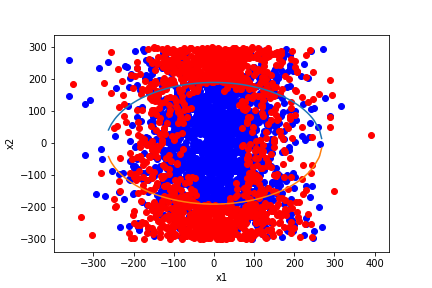
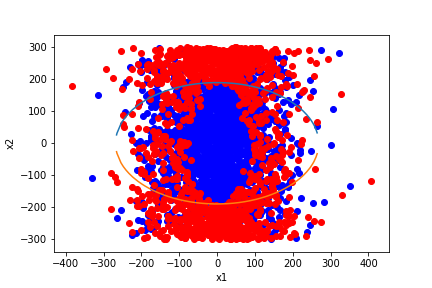
new models and graphs added in main

diff --git a/BivariateClassification_MLexample/code/Main.py b/BivariateClassification_MLexample/code/Main.py
@@ -16,29 +16,52 @@ from sklearn.compose import TransformedTargetRegressor
 from sklearn.preprocessing import StandardScaler
 from sklearn.linear_model import LogisticRegression
 from sklearn.model_selection import RandomizedSearchCV
+from sklearn.model_selection import GridSearchCV
 from sklearn.svm import LinearSVC
 from sklearn.neural_network import MLPClassifier
 from sklearn.metrics import accuracy_score
-
+from sklearn.tree import DecisionTreeClassifier
+from sklearn.ensemble import RandomForestClassifier
+from sklearn.ensemble import BaggingClassifier
+from sklearn.ensemble import AdaBoostClassifier
+import sklearn
 #import matplotlib.pyplot as plt
 
 # initialize the logger
 log = logging.getLogger(__name__)
-logging.basicConfig(level=logging.INFO,format='%(name)s - %(levelname)s - %(message)s')
+logging.basicConfig(level=logging.DEBUG,format='%(name)s - %(levelname)s - %(message)s')
 
+print(sorted(sklearn.metrics.SCORERS.keys()))
 # --------------------- utilities --------------------------------- # 
 
-def model_test_validate(model,X_train,y_train,X_test,y_test):
+
+def model_test_validate(model,X_train,y_train,X_test,y_test,true_boundary):
     """
     
     """
+    #log.debug("The available parameters for cv are: %s", model.get_params().keys())
     # fit model
     model.fit(X_train,y_train)
+    # get performance info on the cross-validation exercise
+    log.info("The best parameters chosen in cross-validation are: %s", model.best_params_)
+    log.info("The performance of the model in cross-validation is: %s", model.best_score_)
     # make predictions
     y_test_pred = model.predict(X_test)
-    # get the MSE and MAE
-    print(accuracy_score(y_test,y_test_pred))
-    # plt results
+    # get the performance on the test dataset
+    log.info("The performance of the model in test is: %s", model.score(X_test,y_test))
+    # plt test labels vs predicted labels
+    _,ax = plt.subplots(1,2)
+    for y,i,name in zip([y_test,y_test_pred],np.arange(2),["test labels","predicted labels"]):
+        ax[i].plot(   X_test[np.where(y == 0),0],
+                      X_test[np.where(y == 0),1],
+                      ".",color = "blue")
+        ax[i].plot(   X_test[np.where(y == 1),0],
+                      X_test[np.where(y == 1),1],
+                      ".",color = "yellow")
+        # plot true decision boundary 
+        for elem in boundary:
+            ax[i].plot(elem[:,0],elem[:,1])
+    # plt correct vs wrong labels
     _,ax = plt.subplots()
     ax.plot(   X_test[np.where(y_test == y_test_pred),0],
                   X_test[np.where(y_test == y_test_pred),1],
@@ -53,9 +76,11 @@ def model_test_validate(model,X_train,y_train,X_test,y_test):
 # set the sample size
 size = 3000
 # set the dgp
-dgp = "quadratic"
+dgp = "sigmoid"
 # set the parameters
 true_parameters = {"alpha" : 2, "beta1" : 2, "beta2" : 4} 
+# set the noise coeff
+noise = 20
 # set the test size as a proportion 
 test_size = 0.2
 
@@ -66,7 +91,9 @@ models = [
         RandomizedSearchCV(
                 make_pipeline(StandardScaler(),LinearSVC(max_iter = 500)),
                 param_distributions = {'linearsvc__C': ss.expon(scale=100)},
+                scoring = ['f1','accuracy'],
                 n_iter = 10,
+                refit = 'f1',
                 cv = 5,
                 n_jobs = -1),            
         
@@ -74,7 +101,9 @@ models = [
         RandomizedSearchCV(
                 make_pipeline(StandardScaler(),LogisticRegression(solver = 'lbfgs',max_iter = 500)),
                 param_distributions = {'logisticregression__C': ss.expon(scale=100)},
+                scoring = ['f1','accuracy'],
                 n_iter = 10,
+                refit = 'f1',
                 cv = 5,
                 n_jobs = -1),
     
@@ -86,7 +115,9 @@ models = [
                                        'mlpclassifier__activation': ['tanh', 'relu'],
                                        'mlpclassifier__solver': ['sgd', 'adam'],
                                        'mlpclassifier__learning_rate': ['constant','adaptive'],},
+                scoring = ['f1','accuracy'],
                 n_iter = 20,
+                refit = 'f1',
                 cv = 5,
                 n_jobs = -1),
                 
@@ -97,17 +128,66 @@ models = [
                                        'hidden_layer_sizes': [(50,50,50), (50,100,50), (100,)],
                                        'activation': ['tanh', 'relu'],
                                        'solver': ['sgd', 'adam'],
-                                       'learning_rate': ['constant','adaptive'],},
+                                       'learning_rate': ['constant','adaptive']},
+                scoring = ['f1','accuracy'],           
                 n_iter = 10,
+                refit = 'f1',
                 cv = 5,
-                n_jobs = -1)
+                n_jobs = -1),
+        """
+        # fifth model - Decision tree Classifier with standard scaler
+        
+        GridSearchCV(
+                make_pipeline(StandardScaler(),DecisionTreeClassifier()),
+                param_grid = {'decisiontreeclassifier__min_samples_split': np.arange(2, 10), 'decisiontreeclassifier__min_samples_leaf': 
+                                        np.arange(.05, .2), 'decisiontreeclassifier__max_leaf_nodes': np.arange(2, 30)},
+                scoring = ["f1","accuracy"],
+                refit = "f1",
+                cv = 5,
+                n_jobs = -1),
+            
+        # sixth model - Random Forest with standard scaler
+        
+        GridSearchCV(
+                make_pipeline(StandardScaler(),RandomForestClassifier()),
+                param_grid = {'randomforestclassifier__n_estimators': np.arange(10, 20), 'randomforestclassifier__min_samples_split': np.arange(2, 10),
+                              'randomforestclassifier__min_samples_leaf': np.arange(.15, .33), 'randomforestclassifier__max_leaf_nodes': np.arange(2, 30),
+                              'randomforestclassifier__bootstrap': ['True', 'False']},
+                scoring = ["f1","accuracy"],
+                refit = "f1",
+                cv = 5,
+                n_jobs = -1),
+        
+        # seventh model - Bagging Classifier with standard scaler
+        
+        GridSearchCV(
+                make_pipeline(StandardScaler(),BaggingClassifier()),
+                param_grid = {'baggingclassifier__n_estimators': np.arange(10, 30), 'baggingclassifier__max_samples': np.arange(2, 
+                                       30), 'baggingclassifier__bootstrap': ['True', 'False'], 'baggingclassifier__bootstrap_features': ['True', 
+                                        'False']},
+                scoring = ["f1","accuracy"],
+                refit = "f1",
+                cv = 5,
+                n_jobs = -1),
+    
+        # eight model - AdaBoost with standard scaler
+        
+        GridSearchCV(
+                make_pipeline(StandardScaler(),AdaBoostClassifier()),
+                param_grid = {'adaboostclassifier__n_estimators': np.arange(10, 30), 'adaboostclassifier__learning_rate': 
+                                        np.arange(.05, .1)},
+                scoring = ["f1","accuracy"],
+                refit = "f1",
+                cv = 5,
+                n_jobs = -1)"""
         ]
 
 
 # -------------------- generata synthetic data ---------------------- # 
 
 # produce synthetic data 
-data = synthetic_data_generator(size = size,dgp = dgp,parameters = true_parameters,plots = True) 
+data,boundary = synthetic_data_generator(size = size,dgp = dgp,parameters = true_parameters,noise = noise,plots = True) 
+print(boundary[0].shape)
 
 # -------------------- preprocessing data --------------------------- # 
 
@@ -121,7 +201,7 @@ log.info("y train shape %s",y_train.shape) ; log.info("y test shape %s",y_test.s
 
 for model in models:
     # evaluate model and plot results
-    model_test_validate(model,X_train,y_train,X_test,y_test)
+    model_test_validate(model,X_train,y_train,X_test,y_test,boundary)
 
     
     

diff --git a/BivariateClassification_MLexample/code/SynthetData_Gen.py b/BivariateClassification_MLexample/code/SynthetData_Gen.py
@@ -24,9 +24,9 @@ def inv_sigmoid(y):
 
 # initialize the logger
 log = logging.getLogger(__name__)
-logging.basicConfig(level=logging.INFO,format='%(name)s - %(levelname)s - %(message)s')
+logging.basicConfig(level=logging.DEBUG,format='%(name)s - %(levelname)s - %(message)s')
 
-def synthetic_data_generator(size,dgp,parameters,plots = True):
+def synthetic_data_generator(size,dgp,parameters,noise,plots = True):
     """
     synthetic_data_generator(size,dgp,plots = True)
     
@@ -42,7 +42,10 @@ def synthetic_data_generator(size,dgp,parameters,plots = True):
         true parameters, dict keys are "alpha","beta1","beta2"
         
     plots : Bool 
-        True if you wants the plots to be saved
+        True if you wants the plots to be savedù
+        
+    noise : float
+        Noise coefficient
     
     # ------- OUTPUT ------------ # 
     
@@ -55,32 +58,24 @@ def synthetic_data_generator(size,dgp,parameters,plots = True):
     # --------------------------- generate data on independent variables --------------------------- #
     
     # generate the independent variables
-    x1 = np.random.normal(loc = 2, scale = 100, size = size)
+    x1 = np.random.normal(loc = 200, scale = 100, size = size)
     x2 = np.linspace(-300,300,size)
     
     # generate the y from the data based on the case
     if dgp == "sigmoid":
-        # set threshold 
-        threshold = 0.5
         # case 1 use a simple logistic
         true_values = sigmoid(alpha + beta1 * x1 + beta2 * x2)
-        values = sigmoid(alpha + beta1 * x1 + beta2 * x2 + np.random.normal(loc = 0, scale = (beta2 + alpha + beta1) * np.abs((x1 - x1.mean()))))
+        values = sigmoid(alpha + beta1 * x1 + beta2 * x2 + np.random.normal(loc = 0, scale = noise * np.abs((x1 - x1.mean()))))
+        # set threshold 
+        threshold = values.mean()
         y = (values >= threshold).astype(int)
         
     elif dgp == "quadratic": 
         # case 2 circle
         true_values = alpha + beta1 * x1**2 + beta2 * x2**2
-        values = true_values + np.random.normal(loc = 0, scale = beta1 * 10 * (x1 - x1.mean())**2)
+        values = true_values + np.random.normal(loc = 0, scale = noise * (x1 - x1.mean())**2)
         # set threshold 
         threshold = values.mean()
-        y = (values >= threshold).astype(int)
-        
-    elif dgp == "easy": 
-        # set threshold 
-        threshold = 0.5
-        # case 1 use a simple logistic
-        true_values = sigmoid(alpha + beta1 * x1 + beta2 * x2)
-        values = sigmoid(alpha + beta1 * x1 + beta2 * x2 + np.random.normal(loc = 0, scale = 0.01))
         y = (values >= threshold).astype(int)
         
     elif dgp == "noise":
@@ -95,12 +90,17 @@ def synthetic_data_generator(size,dgp,parameters,plots = True):
     if plots == True:
         _,ax = plt.subplots()
         ax.scatter(x1[np.where(y == 0)],x2[np.where(y == 0)],color="blue")
-        ax.scatter(x1[np.where(y == 1)],x2[np.where(y == 1)],color="red")
+        ax.scatter(x1[np.where(y == 1)],x2[np.where(y == 1)],color="yellow")
         if (dgp == "sigmoid"): 
             ax.plot(x1[np.argsort(x1)],(inv_sigmoid(threshold) - alpha - beta1 * x1[np.argsort(x1)])/beta2)
+            boundary = []
+            boundary.append(np.array([x1[np.argsort(x1)],(inv_sigmoid(threshold) - alpha - beta1 * x1[np.argsort(x1)])/beta2]).T)
         elif (dgp == "quadratic"):
             ax.plot(x1[np.argsort(x1)],np.sqrt((threshold - alpha - beta1 * x1[np.argsort(x1)]**2)/beta2))
             ax.plot(x1[np.argsort(x1)],-np.sqrt((threshold - alpha - beta1 * x1[np.argsort(x1)]**2)/beta2))
+            boundary = []
+            boundary.append(np.array([x1[np.argsort(x1)],-np.sqrt((threshold - alpha - beta1 * x1[np.argsort(x1)]**2)/beta2)]).T)
+            boundary.append(np.array([x1[np.argsort(x1)],np.sqrt((threshold - alpha - beta1 * x1[np.argsort(x1)]**2)/beta2)]).T)
         ax.set_xlabel("x1")
         ax.set_ylabel("x2")
         graph_name = "SyntheticData_scatter_" + dgp
@@ -110,6 +110,5 @@ def synthetic_data_generator(size,dgp,parameters,plots = True):
     
     # get the data in a single array
     data = np.array([y,x1,x2]).T
-    
-    return data
+    return data,boundary
     
